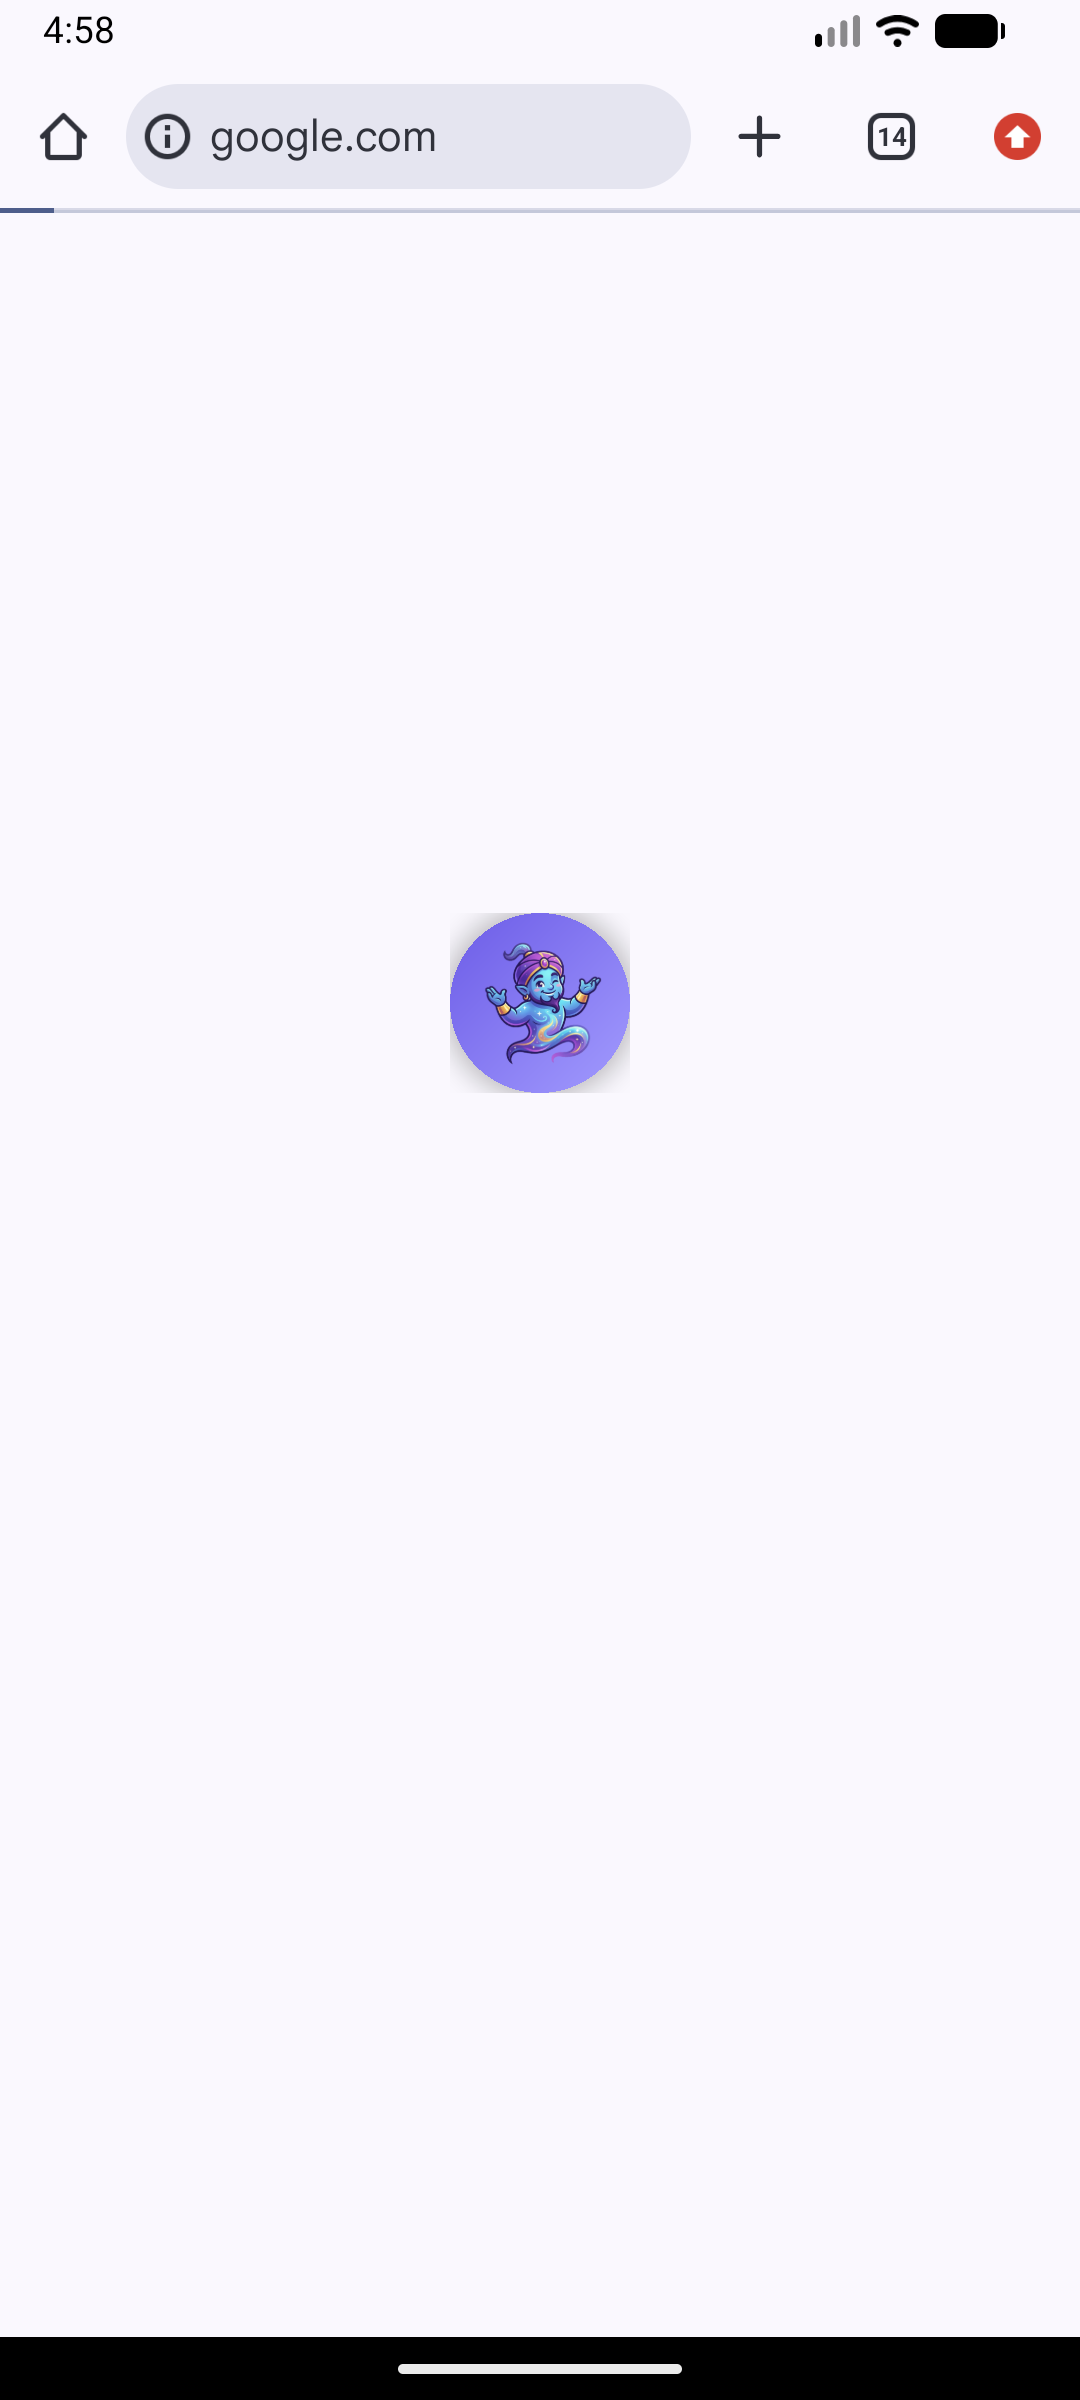
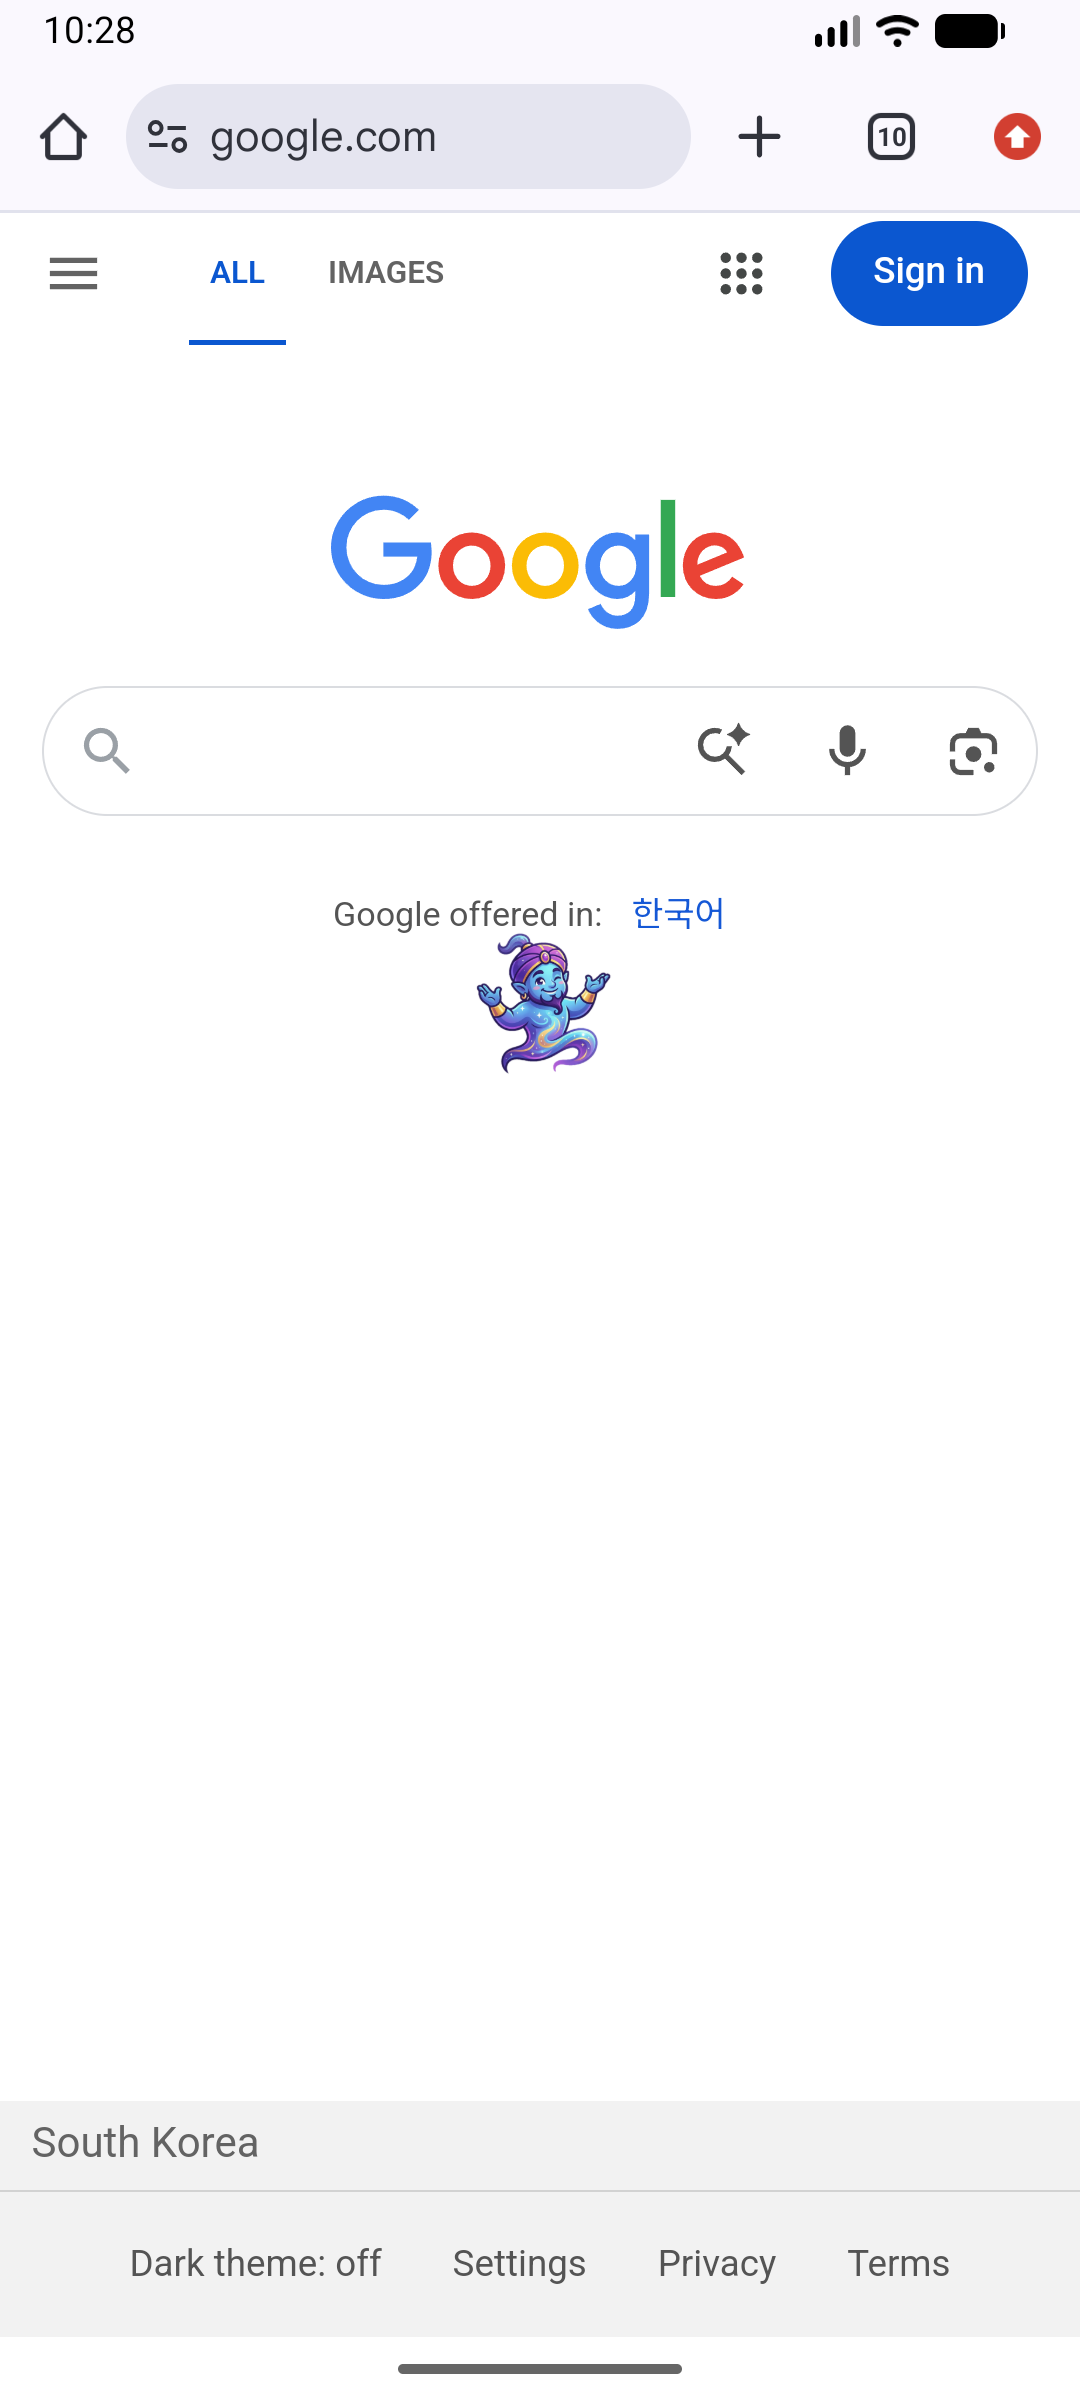
Add Cloud Run deployment and update README
- Deploy backend to Cloud Run (screengenie-api)
- Add .env.example for judges
- Update README with live Cloud Run URL and correct repo link
- Update demo screenshots (bubble without gradient, guidance mode)

diff --git a/README.md b/README.md
@@ -48,7 +48,7 @@ https://github.com/user-attachments/assets/demo.mp4
 - **Floating overlay** — Works on top of any Android app using `flutter_overlay_window`
 - **Real AI analysis** — Gemini 2.5 Flash analyzes screenshots and returns precise UI element coordinates
 - **Spotlight guidance** — Dark overlay with circular cutout highlighting the target element
-- **Animated pointer** — Bouncing genie finger pointing to the target
+- **Animated genie** — Floating genie character near the target with speech bubble
 - **Risk classification** — Safety gate warns users before high-risk actions (payments, deletions)
 - **Dual-mode backend** — Direct Gemini SDK call (default) or Cloud Run backend
 
@@ -79,7 +79,7 @@ https://github.com/user-attachments/assets/demo.mp4
 
 ```bash
 # 1. Clone and setup
-git clone https://github.com/user/screengenie.git
+git clone https://github.com/minjikim89/screengenie.git
 cd screengenie
 
 # 2. Add your API key
@@ -92,15 +92,20 @@ echo "GEMINI_API_KEY=your_key_here" > .env
 adb install -r build/app/outputs/flutter-apk/app-debug.apk
 ```
 
-### Cloud Run Deployment (Optional)
+### Cloud Run Backend
+
+The backend is deployed at: `https://screengenie-api-221297690016.us-central1.run.app`
 
 ```bash
-# Requires gcloud CLI
+# Health check
+curl https://screengenie-api-221297690016.us-central1.run.app/health
+
+# Build APK with Cloud Run backend
+CLOUD_RUN_URL=https://screengenie-api-221297690016.us-central1.run.app ./build_debug.sh
+
+# Or deploy your own instance
 export GCP_PROJECT_ID=your-project-id
 ./deploy_cloudrun.sh
-
-# Then build with Cloud Run URL
-CLOUD_RUN_URL=https://screengenie-api-xxx.run.app ./build_debug.sh
 ```
 
 ## Project Structure
